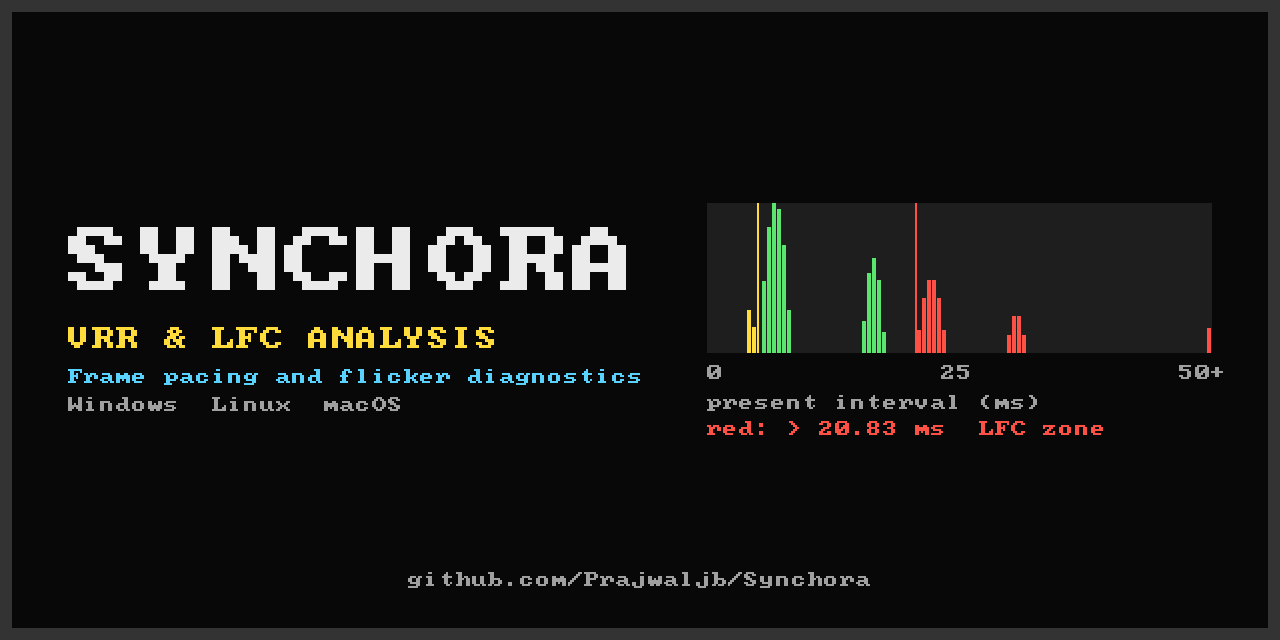
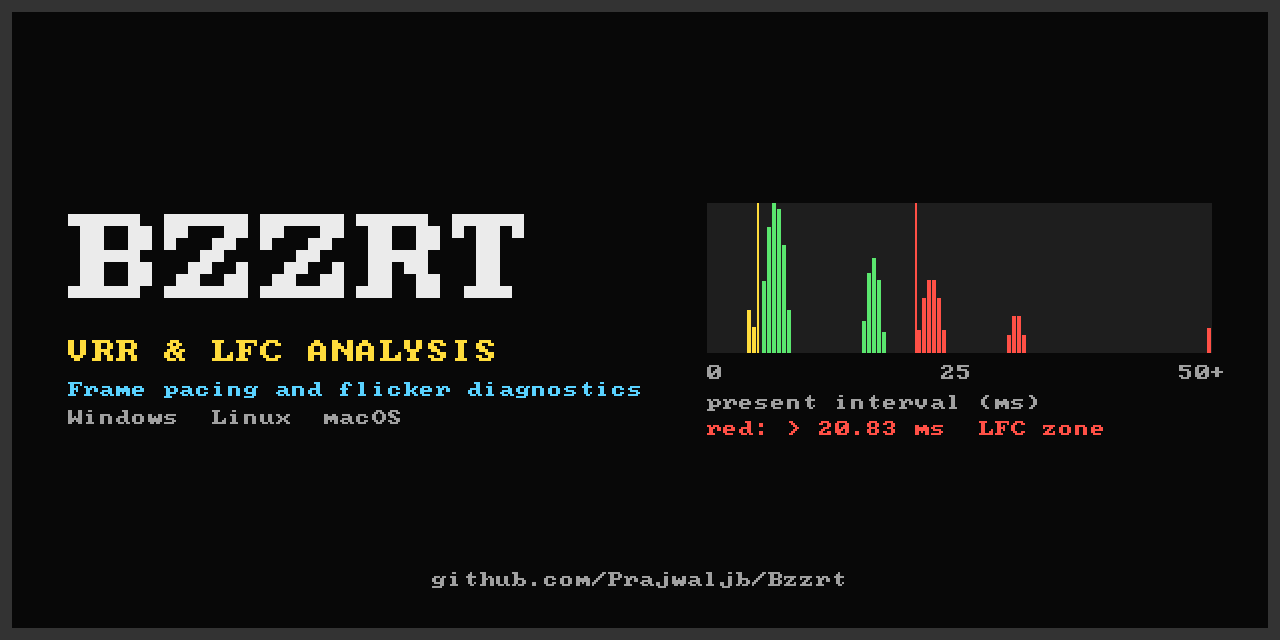
Rename the app from Synchora to Bzzrt
Window titles, --version/--help, report header, macOS bundle
(Bzzrt.app, io.github.prajwaljb.bzzrt), Linux menu entry, CI package
names (bzzrt-<version>-<platform>), docs and banner. Saved VRR ranges
move to ~/.config/bzzrt, %APPDATA%\Bzzrt or Application Support/Bzzrt;
ranges saved under the old Synchora folder are still read until the
next save writes the new file.

Changed region(s): [[0.0312, 0.3125, 0.5, 0.4688], [0.0312, 0.5, 0.5, 0.6875], [0.3125, 0.875, 0.6875, 0.9375]]

diff --git a/src/common/range_store.cpp b/src/common/range_store.cpp
@@ -1,5 +1,6 @@
 #include "range_store.h"
 
+#include <cctype>
 #include <cstdlib>
 #include <filesystem>
 #include <fstream>
@@ -17,8 +18,35 @@ std::string env(const char* name) {
     return v ? v : "";
 }
 
+// The settings directory under a given app name ("Bzzrt" on Windows and macOS, "bzzrt" on Linux).
+std::string configDirNamed(const char* name) {
+#if defined(_WIN32)
+    const std::string base = env("APPDATA");
+    return base.empty() ? std::string() : (fs::path(base) / name).string();
+#elif defined(__APPLE__)
+    const std::string home = env("HOME");
+    return home.empty() ? std::string() : (fs::path(home) / "Library" / "Application Support" / name).string();
+#else
+    std::string base = env("XDG_CONFIG_HOME");
+    if (base.empty()) {
+        const std::string home = env("HOME");
+        if (home.empty()) return {};
+        base = (fs::path(home) / ".config").string();
+    }
+    std::string lower = name;
+    for (char& c : lower) c = static_cast<char>(std::tolower(static_cast<unsigned char>(c)));
+    return (fs::path(base) / lower).string();
+#endif
+}
+
 std::string storePath() {
     const std::string dir = configDir();
+    return dir.empty() ? std::string() : (fs::path(dir) / "ranges.txt").string();
+}
+
+// Ranges saved before the app was renamed from Synchora; read until the first save writes the new file.
+std::string legacyStorePath() {
+    const std::string dir = configDirNamed("Synchora");
     return dir.empty() ? std::string() : (fs::path(dir) / "ranges.txt").string();
 }
 
@@ -26,7 +54,9 @@ std::string storePath() {
 // (which range is in use; older files have no fifth column and mean "manual").
 std::vector<std::pair<std::string, SavedRange>> readAll() {
     std::vector<std::pair<std::string, SavedRange>> out;
-    std::ifstream f(storePath());
+    std::error_code ec;
+    const std::string path = storePath();
+    std::ifstream f(!path.empty() && !fs::exists(path, ec) ? legacyStorePath() : path);
     std::string line;
     while (std::getline(f, line)) {
         if (line.empty() || line[0] == '#') continue;
@@ -45,23 +75,7 @@ std::vector<std::pair<std::string, SavedRange>> readAll() {
 
 }  // namespace
 
-std::string configDir() {
-#if defined(_WIN32)
-    const std::string base = env("APPDATA");
-    return base.empty() ? std::string() : (fs::path(base) / "Synchora").string();
-#elif defined(__APPLE__)
-    const std::string home = env("HOME");
-    return home.empty() ? std::string() : (fs::path(home) / "Library" / "Application Support" / "Synchora").string();
-#else
-    std::string base = env("XDG_CONFIG_HOME");
-    if (base.empty()) {
-        const std::string home = env("HOME");
-        if (home.empty()) return {};
-        base = (fs::path(home) / ".config").string();
-    }
-    return (fs::path(base) / "synchora").string();
-#endif
-}
+std::string configDir() { return configDirNamed("Bzzrt"); }
 
 bool loadRange(const std::string& monitorKey, SavedRange& out) {
     if (monitorKey.empty()) return false;
@@ -85,7 +99,7 @@ std::string saveRange(const std::string& monitorKey, const SavedRange& r) {
     fs::create_directories(fs::path(path).parent_path(), ec);
     std::ofstream f(path, std::ios::trunc);
     if (!f) return {};
-    f << "# Synchora: VRR range entered per monitor (key min_hz max_hz lfc_threshold_fps use)\n"
+    f << "# Bzzrt: VRR range entered per monitor (key min_hz max_hz lfc_threshold_fps use)\n"
          "# lfc_threshold_fps 0 = automatic; use = manual (this entry) or auto (the detected range)\n";
     for (const auto& [key, v] : all)
         f << key << ' ' << v.minHz << ' ' << v.maxHz << ' ' << v.lfcFps << ' ' << (v.useManual ? "manual" : "auto")

diff --git a/tools/make_banner.py b/tools/make_banner.py
@@ -30,13 +30,13 @@ rim = 12
 rect(rim, rim, W - 2 * rim, H - 2 * rim, '#000', .84)
 mid = H // 2
 # left: name and taglines
-left = [(72, 28), (24, 18), (16, 12), (16, 0)]
+left = [(96, 30), (24, 18), (16, 12), (16, 0)]
 py = mid - sum(h + g for h, g in left) // 2
 px = rim + 56
-text(px, py, 'SYNCHORA', WHITE, 9)
-text(px, py + 100, 'VRR & LFC ANALYSIS', YELLOW, 3)
-text(px, py + 142, 'Frame pacing and flicker diagnostics', CYAN, 2)
-text(px, py + 170, 'Windows  Linux  macOS', GRAY, 2)
+text(px, py, 'BZZRT', WHITE, 12)
+text(px, py + 126, 'VRR & LFC ANALYSIS', YELLOW, 3)
+text(px, py + 168, 'Frame pacing and flicker diagnostics', CYAN, 2)
+text(px, py + 196, 'Windows  Linux  macOS', GRAY, 2)
 # right: present interval histogram, 0-50 ms in 0.5 ms bins, VRR range 48-200 Hz
 bins, bw, hh = 101, 5, 150
 hx = W - rim - 56 - bins * bw
@@ -63,7 +63,7 @@ text(hx, ly, '0', GRAY, 2); text(hx + 50 * bw - 16, ly, '25', GRAY, 2); text(hx 
 text(hx, ly + 30, 'present interval (ms)', GRAY, 2)
 text(hx, ly + 56, 'red: > 20.83 ms  LFC zone', RED, 2)
 if H >= 500:
-    url = 'github.com/Prajwaljb/Synchora'
+    url = 'github.com/Prajwaljb/Bzzrt'
     text((W - 16 * len(url)) // 2, H - rim - 56, url, GRAY, 2)
 o.append('</svg>')
 open(out, 'w').write('\n'.join(o) + '\n')

diff --git a/src/common/app.cpp b/src/common/app.cpp
@@ -480,7 +480,7 @@ void App::buildOverlay(int64_t now) {
     } else {
         state = fmt("IDLE @ %.0f FPS - SPACE starts test", cfg_.idleFps);
     }
-    add("SYNCHORA VRR/LFC DIAGNOSTIC   [" + state + "]", running_ ? kGreen : kYellow);
+    add("BZZRT VRR/LFC DIAGNOSTIC   [" + state + "]", running_ ? kGreen : kYellow);
     add("API: " + binfo_.api + "   (" + platform_.name() + ")", kCyan);
     add("GPU: " + binfo_.gpu, kCyan);
     {
@@ -843,7 +843,7 @@ CheckContext App::checkContext() const {
 void App::writeReport() {
     const auto& steps = resultSteps_;
     std::vector<std::string> lines;
-    lines.push_back(std::string("Synchora ") + kVersion + " VRR flicker check - " + wallClockStamp("%Y-%m-%d %H:%M:%S"));
+    lines.push_back(std::string("Bzzrt ") + kVersion + " VRR flicker check - " + wallClockStamp("%Y-%m-%d %H:%M:%S"));
     lines.push_back("System: " + binfo_.api + " (" + platform_.name() + "), GPU: " + binfo_.gpu);
     lines.push_back("Output: " + dinfo_.outputName + " " + dinfo_.monitorName + " " + displayModeString(dinfo_));
     lines.push_back(fmt("VRR range: %.0f-%.0f Hz (%s)   Window: %s", vrrMin_, vrrMax_, rangeSource_.c_str(),

diff --git a/src/mac/main_mac.mm b/src/mac/main_mac.mm
@@ -31,7 +31,7 @@ int main(int argc, char** argv) {
             return 0;
         }
         if (cfg.version) {
-            std::printf("Synchora %s\n", kVersion);
+            std::printf("Bzzrt %s\n", kVersion);
             return 0;
         }
         if (cfg.listTests) {
@@ -43,10 +43,10 @@ int main(int argc, char** argv) {
             return 2;
         }
         cfg.api = "metal";
-        // Started from Finder the working directory is "/", so logs go to ~/Documents/Synchora instead.
+        // Started from Finder the working directory is "/", so logs go to ~/Documents/Bzzrt instead.
         if (cfg.logDir == "." && access(".", W_OK) != 0) {
             if (const char* home = std::getenv("HOME")) {
-                cfg.logDir = std::string(home) + "/Documents/Synchora";
+                cfg.logDir = std::string(home) + "/Documents/Bzzrt";
                 std::error_code ec;
                 std::filesystem::create_directories(cfg.logDir, ec);
             }

diff --git a/src/win/win_platform.cpp b/src/win/win_platform.cpp
@@ -123,7 +123,7 @@ bool WinPlatform::create(const Config& cfg, std::string& err) {
         x = mi.rcWork.left + std::max(0, static_cast<int>(mi.rcWork.right - mi.rcWork.left) - w) / 2;
         y = mi.rcWork.top + std::max(0, static_cast<int>(mi.rcWork.bottom - mi.rcWork.top) - h) / 2;
     }
-    hwnd_ = CreateWindowExW(0, wc.lpszClassName, L"Synchora - VRR flicker check", WS_OVERLAPPEDWINDOW, x, y, w, h, nullptr,
+    hwnd_ = CreateWindowExW(0, wc.lpszClassName, L"Bzzrt - VRR flicker check", WS_OVERLAPPEDWINDOW, x, y, w, h, nullptr,
                             nullptr, inst, this);
     if (!hwnd_) return err = "CreateWindowExW failed", false;
     ShowWindow(hwnd_, SW_SHOW);

diff --git a/src/linux/wayland_window.cpp b/src/linux/wayland_window.cpp
@@ -215,7 +215,7 @@ bool WaylandWindow::init(const Config& cfg, std::string& err) {
     xdg_surface_add_listener(xdgSurface_, &kXdgSurfaceListener, this);
     toplevel_ = xdg_surface_get_toplevel(xdgSurface_);
     xdg_toplevel_add_listener(toplevel_, &kToplevelListener, this);
-    xdg_toplevel_set_title(toplevel_, "Synchora - VRR flicker check");
+    xdg_toplevel_set_title(toplevel_, "Bzzrt - VRR flicker check");
     xdg_toplevel_set_app_id(toplevel_, "vrrdiag");
     if (mode_ == WindowMode::Borderless) xdg_toplevel_set_fullscreen(toplevel_, nullptr);
 #ifdef VRRDIAG_HAVE_CONTENT_TYPE

diff --git a/src/linux/x11_window.cpp b/src/linux/x11_window.cpp
@@ -51,7 +51,7 @@ bool X11Window::init(const Config& cfg, std::string& err) {
                       static_cast<uint16_t>(height_), 0, XCB_WINDOW_CLASS_INPUT_OUTPUT, screen_->root_visual, mask,
                       values);
 
-    const char* title = "Synchora - VRR flicker check";
+    const char* title = "Bzzrt - VRR flicker check";
     xcb_change_property(conn_, XCB_PROP_MODE_REPLACE, window_, XCB_ATOM_WM_NAME, XCB_ATOM_STRING, 8,
                         static_cast<uint32_t>(std::strlen(title)), title);
     wmProtocols_ = atom("WM_PROTOCOLS");

diff --git a/src/common/range_store.h b/src/common/range_store.h
@@ -11,8 +11,8 @@ struct SavedRange {
     bool useManual = true;   // false: the user switched back to the detected range but kept this entry
 };
 
-// Per-user settings directory: $XDG_CONFIG_HOME/synchora, %APPDATA%\Synchora or
-// ~/Library/Application Support/Synchora. Empty if it cannot be determined.
+// Per-user settings directory: $XDG_CONFIG_HOME/bzzrt, %APPDATA%\Bzzrt or
+// ~/Library/Application Support/Bzzrt. Empty if it cannot be determined.
 std::string configDir();
 
 bool loadRange(const std::string& monitorKey, SavedRange& out);

diff --git a/src/mac/mac_platform.mm b/src/mac/mac_platform.mm
@@ -161,7 +161,7 @@ bool MacPlatform::create(const Config& cfg, std::string& err) {
                     backing:NSBackingStoreBuffered
                       defer:NO];
     if (!window_) return err = "cannot create window", false;
-    window_.title = @"Synchora - VRR flicker check";
+    window_.title = @"Bzzrt - VRR flicker check";
     window_.collectionBehavior = NSWindowCollectionBehaviorFullScreenPrimary;
     window_.releasedWhenClosed = NO;
     view_ = [[VrrView alloc] initWithFrame:NSMakeRect(0, 0, w, h)];

diff --git a/src/common/config.cpp b/src/common/config.cpp
@@ -8,7 +8,7 @@ namespace vrr {
 
 void printUsage(const char* argv0) {
     std::printf(
-        "Synchora %s - VRR / FreeSync / G-SYNC / Adaptive-Sync flicker and LFC diagnostic\n\n"
+        "Bzzrt %s - VRR / FreeSync / G-SYNC / Adaptive-Sync flicker and LFC diagnostic\n\n"
         "Usage: %s [options]\n\n"
         "Backend\n"
 #if defined(_WIN32)

diff --git a/src/linux/main_linux.cpp b/src/linux/main_linux.cpp
@@ -34,7 +34,7 @@ int main(int argc, char** argv) {
         return 0;
     }
     if (cfg.version) {
-        std::printf("Synchora %s\n", kVersion);
+        std::printf("Bzzrt %s\n", kVersion);
         return 0;
     }
     if (cfg.listTests) {

diff --git a/src/win/main_win.cpp b/src/win/main_win.cpp
@@ -33,7 +33,7 @@ int main(int argc, char** argv) {
         return 0;
     }
     if (cfg.version) {
-        std::printf("Synchora %s\n", kVersion);
+        std::printf("Bzzrt %s\n", kVersion);
         return 0;
     }
     if (cfg.listTests) {
